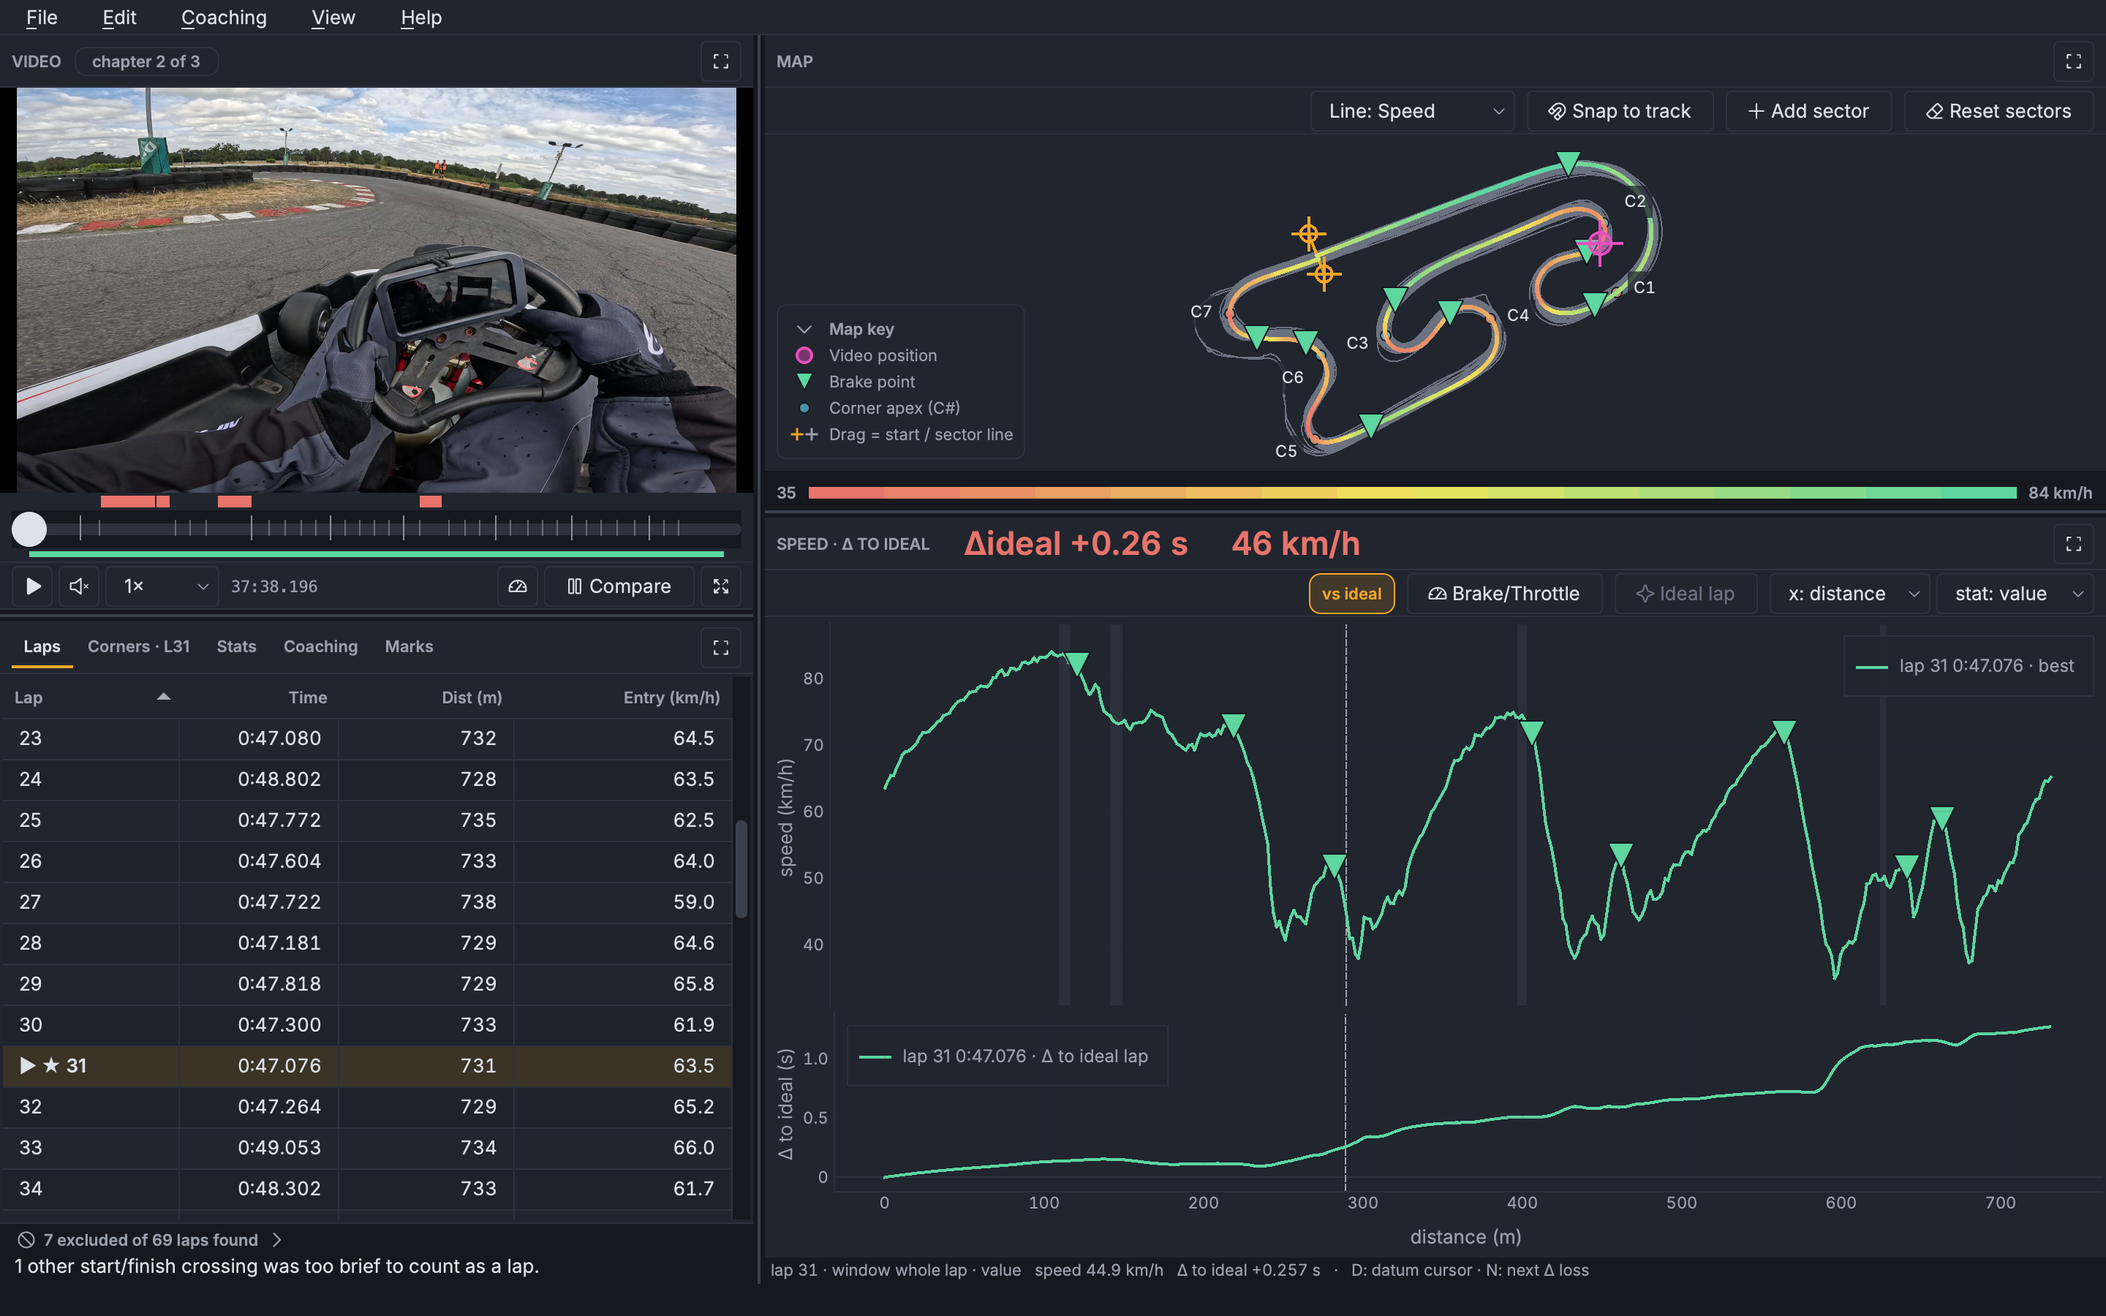
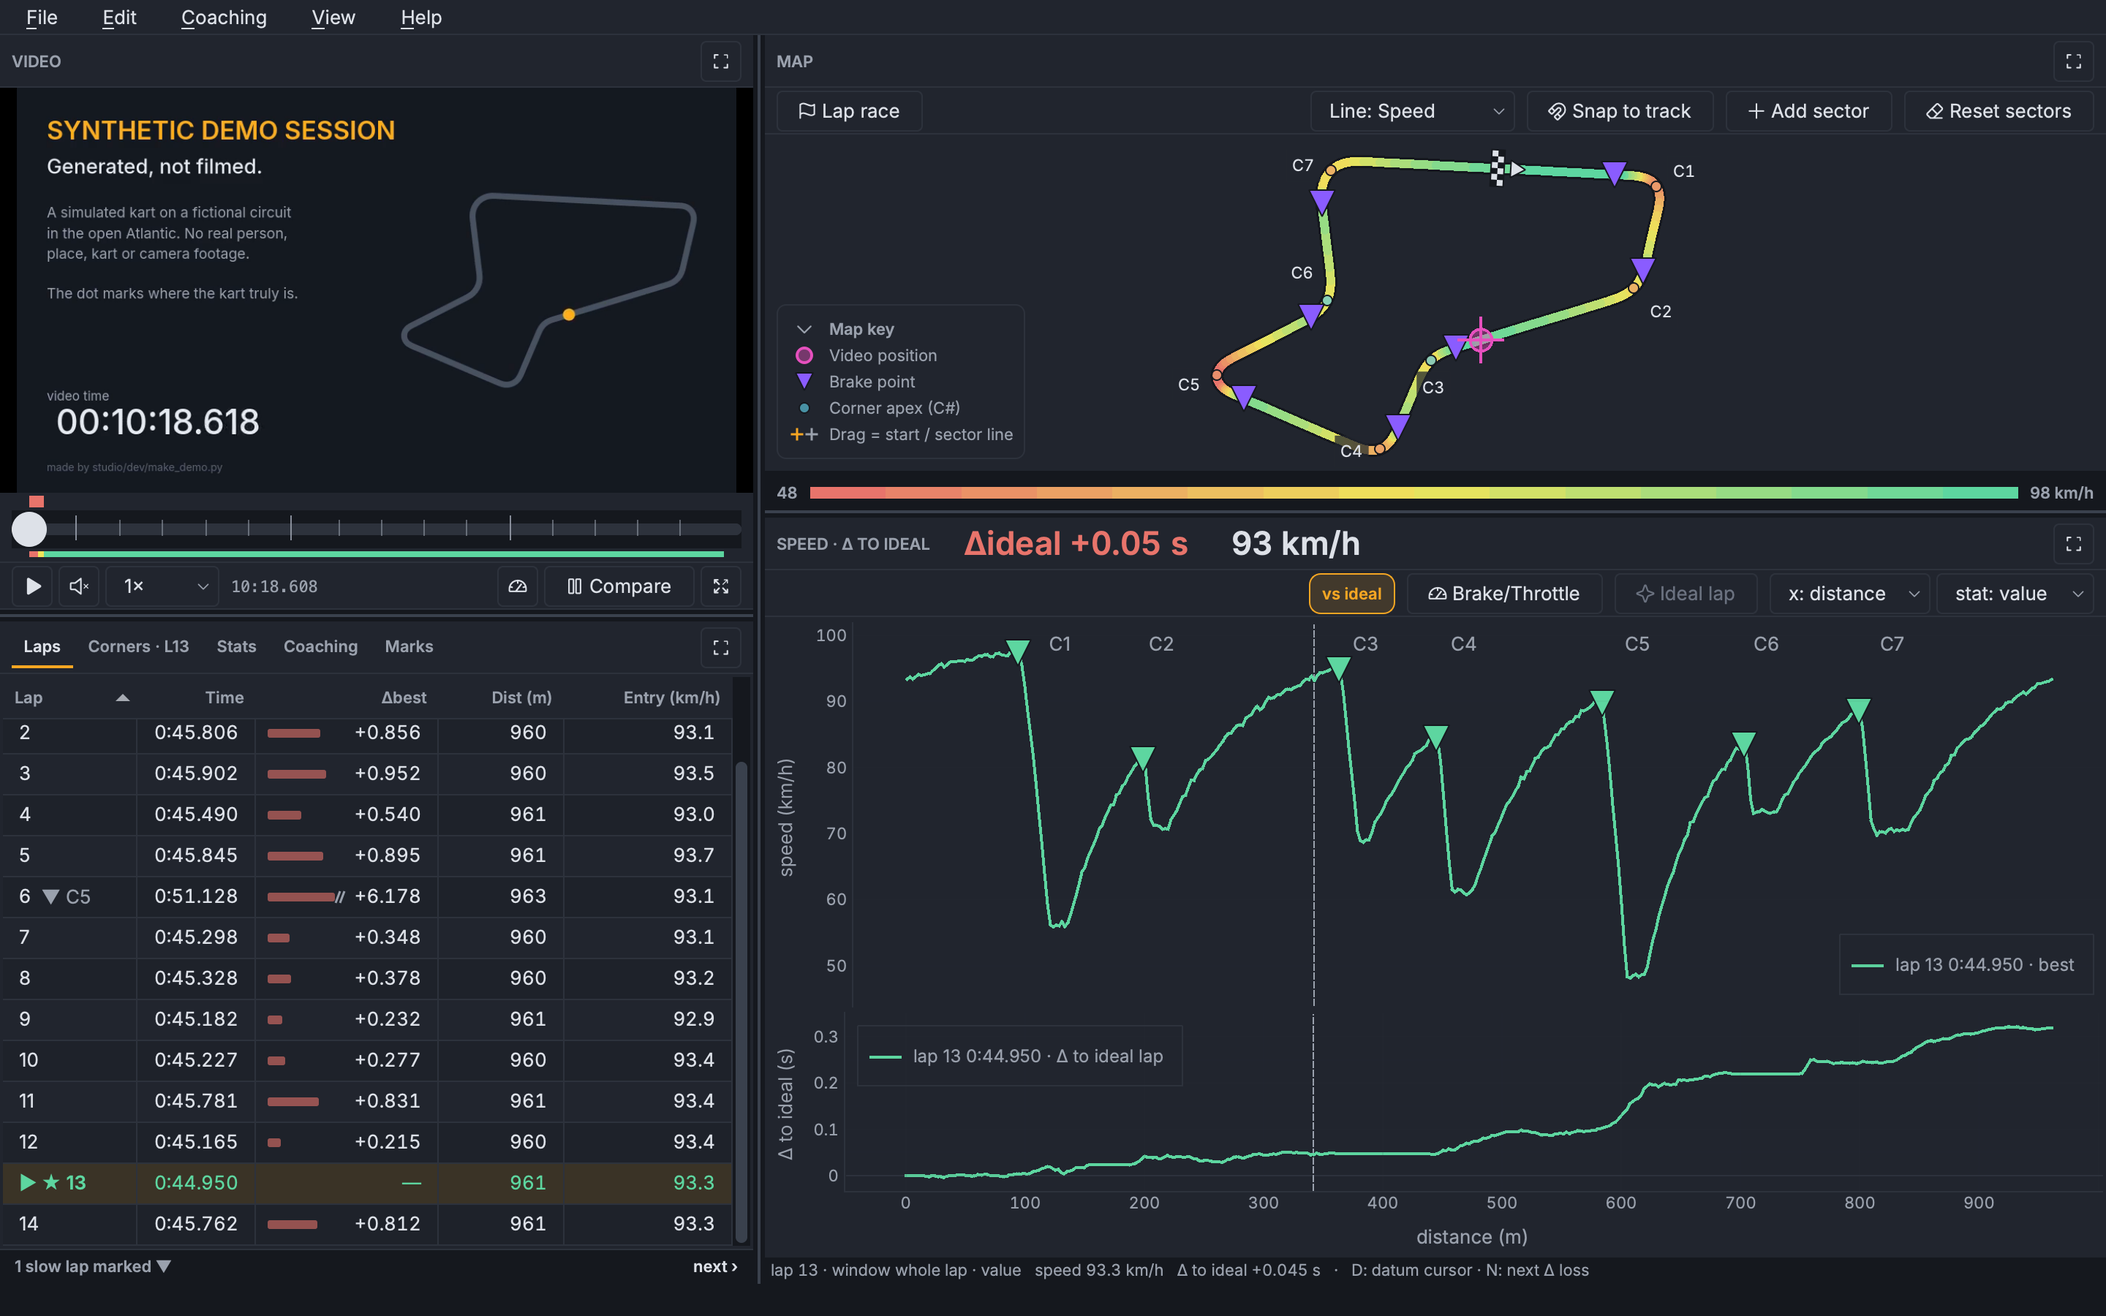
release 0.15.0: re-shoot the window, map and social card from the demo, add the report picture, renew the waivers; DECISIONS section 17

diff --git a/docs/index.html b/docs/index.html
@@ -375,8 +375,8 @@
 
     <figure class="figure">
       <img src="media/hero.png" width="2880" height="1800"
-           alt="The Pacer Studio window on a real kart session, Sandown 3h, pictured at v0.7: GoPro video with its own transport, a speed-coloured track map with brake points, seven named corners and a key, the SPEED · Δ TO IDEAL charts reading Δideal +0.26 s at 46 km/h, and the tabbed lap panel with lap 31 starred as the session best at 0:47.076.">
-      <figcaption>One window on one recording — Sandown 3h, three hours at Sandown Park in July 2026, as is every screenshot on this page but the lap-strip card and the Stats moments, which are the synthetic demo's. This one and the map are v0.7's, before 0.8's wider lap line, violet brake points and chart corner labels.</figcaption>
+           alt="The Pacer Studio window on the synthetic demo: the demo's generated picture in the video pane with its own transport, a speed-coloured track map with violet brake points, seven named corners, a key and a Lap race button, the SPEED · Δ TO IDEAL charts reading Δideal +0.05 s at 93 km/h, and the tabbed lap panel with lap 13 starred as the session best at 0:44.950.">
+      <figcaption>One window on one recording — the synthetic demo, the session anyone can open, as are the map, the lap-strip card, the Stats moments and the report below. The ideal-lap, data-trust and overlay pictures are a real one: Sandown 3h, three hours at Sandown Park in July 2026.</figcaption>
     </figure>
   </div>
 </section>
@@ -461,13 +461,18 @@
     <div class="grid-2">
       <figure class="figure">
         <img src="media/map.png" width="2864" height="2572" loading="lazy" decoding="async"
-             alt="The track map maximised to the whole window on Sandown 3h, pictured at v0.7: the racing line coloured by speed from 35 to 84 km/h over every lap's trace, seven labelled corners, brake-point markers, the start/finish line, and an open key naming every mark.">
+             alt="The track map maximised to the whole window on the synthetic demo: the racing line coloured by speed from 48 to 98 km/h over every lap's trace, seven labelled corners, violet brake-point markers, the chequered start/finish line, the Lap race button, and an open key naming every mark.">
         <figcaption><strong>The racing line is a data channel.</strong> Colour it by speed, Δ vs best, grip, or elevation; drag the start line or add sectors to re-segment the session.</figcaption>
       </figure>
       <figure class="figure">
         <img src="media/overlay.jpg" width="1440" height="810" loading="lazy" decoding="async"
              alt="A frame of a real exported overlay video on Sandown 3h: onboard kart footage with a lap-and-delta pill reading LAP 23, 0:19.799, Δ +0.05, a g-meter dial at 0.3 g, a mini track map, and a 57 km/h speed readout burned in.">
         <figcaption><strong>The analysis leaves the app.</strong> A real frame from an exported overlay video in its default Classic style; a Broadcast style, a ghost of your best lap and corner cards are options in the same dialog. There is also a shareable lap-card image, and a data export of laps CSV + per-lap channels CSV + a one-page HTML session report that opens on the lap card and the Coaching page's answer, then tells the Stats page's story: pace, moments, corners, slow laps and the lap strip.</figcaption>
+      </figure>
+      <figure class="figure">
+        <img src="media/report.png" width="2200" height="1600" loading="lazy" decoding="async"
+             alt="The first screen of the synthetic demo's session report: the recording, track, date, 14 laps, best lap 0:44.950 (lap 13) and verified timing; the lap card with +0.32 s to the ideal lap and C1 +0.36 s as the biggest opportunity; and COACHING: 0.43 s across your top 3 corners, apex speed the common thread with 84% of that time in C1, and the ranked corners with their reasons.">
+        <figcaption><strong>The session leaves the app as a page.</strong> File ▸ Export ▸ Session report (HTML)… writes one self-contained file that opens like the debrief: the lap card beside the Coaching page's answer, then the Stats page's story. This one is the synthetic demo's, so anyone can make it.</figcaption>
       </figure>
       <figure class="figure">
         <img src="media/lapstrip.png" width="1080" height="1350" loading="lazy" decoding="async"

diff --git a/docs/DECISIONS.md b/docs/DECISIONS.md
@@ -789,3 +789,102 @@ write each decision down, and keep going." Each item below is recorded 2026-11-1
   tables cannot be re-verified offline.
 - **The campaign ends with this release** unless the owner's next race day says otherwise: the
   question left is whether the focus loop holds on a second real session of one track.
+
+## 17. Recorded at the 0.15.0 release, 2026-11-18
+
+- **v0.15.0 is a minor release**: 7 pull requests from #606 to #612, Wave 10 of the campaign
+  section 8 records, built to three designs the owner approved and two of his rulings.
+  - #606: a track driven the other way round is "can't say" for every stored corner, and
+    `synth_gopro --reverse` drives the demo's circuit backwards for the tests.
+  - #607: Coaching's theme counts the corners its headline sums (the demo: 84 % of that time in
+    its first corner).
+  - #608: a personal best per direction; the Library names each row's way round.
+  - #609: a Jump and a Compare, named for their corner, on the docked Coaching tab's focus-list
+    line.
+  - #610: the welcome screen says what Pacer does, leads with the demo, and lists five recent
+    sessions.
+  - #611: Classic and compare exports draw a Δ under 0.07 s white; the compare Δ loses its arrow.
+  - #612: tests only; six slow test files trimmed, and refusal section 35 (CI tiering).
+- **Owner rulings of 2026-11-18.** He approved design 1A with its question answered (a) (Jump and Compare share the
+  focus-list line; at 1440×900 the focus paragraph folds to its chip while they are shown), 2A with
+  (a) (one centred welcome column; for a returning user the demo is a small link) and 3A with
+  (a) (the neutral colour for a gap under 0.07 s in Classic and in the compare export, with no
+  hold). He approved personal bests per direction, the theme's share over the shortlist, re-shooting
+  the README and landing screenshots from the demo, and a report picture. He asked for faster
+  delivery: CI is the per-pull-request gate, one combined local gate runs per wave, and the full
+  gate and the soak run at the release. No check was removed.
+- **Defaults applied on the owner's instruction not to be asked**, each open to his overrule:
+  - **A row's direction is measured, never guessed** (#608): `rotation` is stored only from a
+    session's own corners; a row or focus item without it is compared as before and is never named
+    by a way round.
+  - **The pair aims at the selected row, else the top ranked one** (#609), selects nothing itself,
+    and hides wherever the rows carry their own Jump; a list with verdicts keeps its block when the
+    page has room, else the chip says how many were re-measured.
+  - **"Recent" means the newest recording date** (#610): the Library stores no last-opened time.
+  - **The level rule is Broadcast's own** (#611): decided on the printed value, so "+0.07" is
+    always coloured.
+- **#612's record.** The six files run 25 % faster locally (351.6 → 262.8 s, each alone under
+  ctest). 84 planted defects were run one at a time against each file before and after the trim:
+  71 were killed before and 71 after, none lost. Section 35 of `studio/docs/refused-2026-09.md`
+  refuses running the export tests on a pull request only when export code changes (built in #605,
+  closed): the export tests import 91 of the app's 93 modules, so a sound path list skips the tier
+  on 25 of the last 200 merged pull requests and on none of the last 60.
+- **The media.** Re-captured on the synthetic demo at 0.15.0: `hero.png` and `map.png`, which had
+  been labelled v0.7 pictures of Sandown 3h; `og.png`, composed from the new hero; `debrief.png`,
+  for its theme line (the docked page's Jump and Compare are not on the debrief, by design); and
+  `accuracy.png`, `moments.png` and `lapstrip.png` (its own run), whose bytes are unchanged. New:
+  `report.png`, the demo report's first screen at 2x, beside the pages' report text. The waivers of
+  `data-trust.png` and `ideal-lap.png` are renewed (a demo render from v0.14.0's `studio/` and from
+  0.15.0 is byte-identical), as are those of `overlay.jpg`, `best-lap.jpg` and `best-lap.mp4`: a
+  painter-level A/B of 90 configurations on the demo is byte-identical on the best lap and on
+  Broadcast, and differs on Classic laps 6 and 7 only, as #611 intends. `overlay.jpg` still shows a
+  red "Δ +0.05" that a current export draws white; re-shooting it needs real footage that is not
+  on this machine.
+- **What could not run for it.** The real-footage checks whose recordings are not on this machine
+  report Skipped by name, the two focus checks among them (they need a second recording of one
+  track). The transport keys could not be confirmed offscreen. The manual half of the golden gate
+  did not run as a release gate; the core is unchanged.
+- **Resolved from section 16**: the docked Coaching tab's missing Jump and Compare (#609);
+  re-shooting the window and map pictures (now the demo's); the layout check on a track driven in
+  reverse (#606, on synthetic sessions); Classic's Δ colour inside 0.07 s (#611); the welcome
+  screen (#610); a report screenshot; the theme's share counted over every ranked corner (#607).
+- **Open for the owner** (new).
+  - With verdicts on the list, the docked chip says "3 of 3 re-measured" and the verdict lines are
+    one click away at 1280 and 1440; the alternative is to hide the pair there or shrink the theme.
+  - A session with no laps is left out of the welcome's list, and an unreadable library shows the
+    first-visit screen.
+  - The overlays use the 0.07 s step even on an estimated clock, where the Lap race and the story
+    use 0.15 s.
+  - A re-profiled corner that keeps its direction is still compared.
+  - Focus items and Library rows stored before 0.15.0 carry no direction until their recording is
+    opened again.
+  - A one-corner shortlist's theme reads oddly: on a synthetic session (seed 1, 6 laps, a planted
+    habit) it is "No single theme: 100% of the time on offer is in corners you have already
+    driven at this pace, 0% in corners you have rarely reached", followed by that corner's name
+    and "sits on the line: one lap fewer at its target and it would not count.", and one corner
+    can read "No single cause dominates these corners".
+  - After the docked pair's Jump the lap panel shows Corners, as every Jump does, so its Compare is
+    one tab away.
+  - A missing file's name in the welcome is cut to "GX01….MP4", losing its number.
+  - `overlay.jpg` needs real footage to re-shoot; `og.png` changed, and it is also the repository's
+    social preview on GitHub, which is uploaded by hand.
+  - 13 planted defects no test catches (#612): the Export action enabled with no clip, the report's
+    map, the lap card one pixel low, a hovered label, and gaps in the Broadcast, ghost and gate
+    tests.
+  - Two slow product paths noticed in #612: the export painter walks every frame twice, and
+    windows are kept alive in `test_central_view_realqt`.
+- **Open for the owner** (carried from section 16): a marginal corner near the 30° detection limit
+  could read "there's no corner there today"; the mixed headline's "N without enough evidence"
+  counts layout refusals with the rest; a Compare started from the maximised page returns to the
+  grid and stays there; the focus verdict's spread-based line prints medians to two decimals;
+  FIRST_LAP's loop paragraph does not name the two newer verdicts, and its step 8 names Jump, not
+  Compare or the Lap race button; the report's Laps card scroll
+  with sector lines; `fmt_time` negatives; Broadcast as the default Style; a ranked corner under the
+  display floor counted in "your N ranked corners"; one lap drawn in two colours in a race over a
+  pick; a session reload stranding widgets; the capture tool's `lapstrip.png` bytes depending on
+  what else the run captures; ranking corners that lose under 0.07 s at all; weighing consistency
+  on the middle half rather than σ; the apex and braking reasons have no noise floor; the demo
+  habit is ranked only on its own seed; the overlay's ★/Δ under provisional timing; Extras on in
+  Classic; the ◆ glyph; Follow's default; a Broadcast still; the keys 1-5 right after a load on a
+  real display; pull request #582's commit list comment; the published real-footage Coaching
+  tables cannot be re-verified offline.

diff --git a/README.md b/README.md
@@ -16,13 +16,12 @@ It is a real, working app — and it is a **portfolio piece**, so this page is w
 study: what it claims, how each claim was measured, and the gates that keep it true. **Source is
 the only distribution** — no download, no `.dmg`, no signed build (see [Non-goals](#non-goals)).
 
-<img src="docs/media/hero.png" width="880" alt="Pacer's four-panel window on Sandown 3h, pictured at v0.7: synced GoPro video, the speed-coloured track map with brake points and seven named corners, the speed and Δ-to-ideal charts reading Δideal +0.26 s, and the Laps · Corners · Stats · Coaching · Marks panel with lap 31 starred as the best at 0:47.076">
+<img src="docs/media/hero.png" width="880" alt="Pacer's four-panel window on the synthetic demo: the demo's generated picture in the video pane, the speed-coloured track map with violet brake points, seven named corners and a Lap race button, the speed and Δ-to-ideal charts reading Δideal +0.05 s at 93 km/h, and the Laps · Corners · Stats · Coaching · Marks panel with lap 13 starred as the best at 0:44.950">
 
-*Every screenshot here is Pacer on Sandown 3h — three hours at Sandown Park — but the
-debrief, the Stats moments and the lap-strip card, which are the synthetic demo's; all are
-captured by one command, [`studio/dev/media_capture.py`](studio/dev/media_capture.py). The window
-and map shots are v0.7's, before 0.8's wider lap line, violet brake points and chart corner
-labels. In motion:
+*The window, the map, the debrief, the Stats moments, the lap-strip card and the report are the
+synthetic demo's, the session anyone can open; the ideal-lap, data-trust and overlay pictures
+are Pacer on Sandown 3h, three hours at Sandown Park. All are captured by one command,
+[`studio/dev/media_capture.py`](studio/dev/media_capture.py). In motion:
 [20 seconds of the best lap as the app exports it](docs/media/best-lap.mp4).*
 
 **Try it** on an Apple Silicon Mac with [pixi](https://pixi.sh) — the demo needs no GoPro:
@@ -89,7 +88,7 @@ official timing measures the noise floor.
   start line together on the map, each on its own lap clock, in packs the timing cannot split.
   ⇧R follows the pack.
 
-<img src="docs/media/map.png" width="620" alt="The map panel maximised on Sandown 3h, pictured at v0.7: the racing line coloured by speed from 35 to 84 km/h over every lap's trace, seven named corner apexes, brake-point markers, the start/finish line, and the map key naming every glyph">
+<img src="docs/media/map.png" width="620" alt="The map panel maximised on the synthetic demo: the racing line coloured by speed from 48 to 98 km/h over every lap's trace, seven named corner apexes, violet brake-point markers, the chequered start/finish line, the Lap race button, and the map key naming every glyph">
 
 - **Coaching, and the loop it is built around.** A ranked shortlist of the corners where your laps
   *typically* give away the most to your *best* one, each with a dominant measured reason; a
@@ -114,6 +113,8 @@ official timing measures the noise floor.
   card as an image, and the telemetry burned onto the footage (via ffmpeg). A lap-strip card puts
   every lap of the session on one image, and the overlay comes in two styles, Classic or
   Broadcast, with a ghost of your best lap and corner cards as extras you tick.
+
+<img src="docs/media/report.png" width="660" alt="The first screen of the synthetic demo's session report, as File ▸ Export ▸ Session report (HTML)… writes it: the recording, track, date, 14 laps, best lap 0:44.950 (lap 13) and verified timing; the lap card with its +0.32 s to the ideal lap and C1 +0.36 s as the biggest opportunity; and COACHING: 0.43 s across your top 3 corners, apex speed the common thread with 84% of that time in C1, and the ranked corners with their reasons">
 
 <img src="docs/media/overlay.jpg" width="880" alt="A frame of a real exported overlay video on Sandown 3h: LAP 23, its elapsed 0:19.799 and a live Δ +0.05 burned into the top-left of the GoPro footage, a g-meter reading 0.3 g top-right, a mini track map bottom-right and 57 km/h bottom-left">
 

diff --git a/docs/FIRST_LAP.md b/docs/FIRST_LAP.md
@@ -3,7 +3,7 @@
 A 30-second path from a GoPro recording to *"where am I losing time, and what do I do about it?"* —
 the reason Pacer exists.
 
-![Pacer, pictured at v0.7 — one window on a GoPro recording: synced video, a speed-coloured track map with brake points and corner apexes, the live Δ-to-ideal readout over distance-aligned speed and Δ charts, and the lap table with the session best starred](media/hero.png)
+![Pacer on the synthetic demo — one window on a GoPro-format recording: synced video, a speed-coloured track map with brake points and corner apexes, the live Δ-to-ideal readout over distance-aligned speed and Δ charts, and the lap table with the session best starred](media/hero.png)
 
 ## 1 · Open a recording
 
